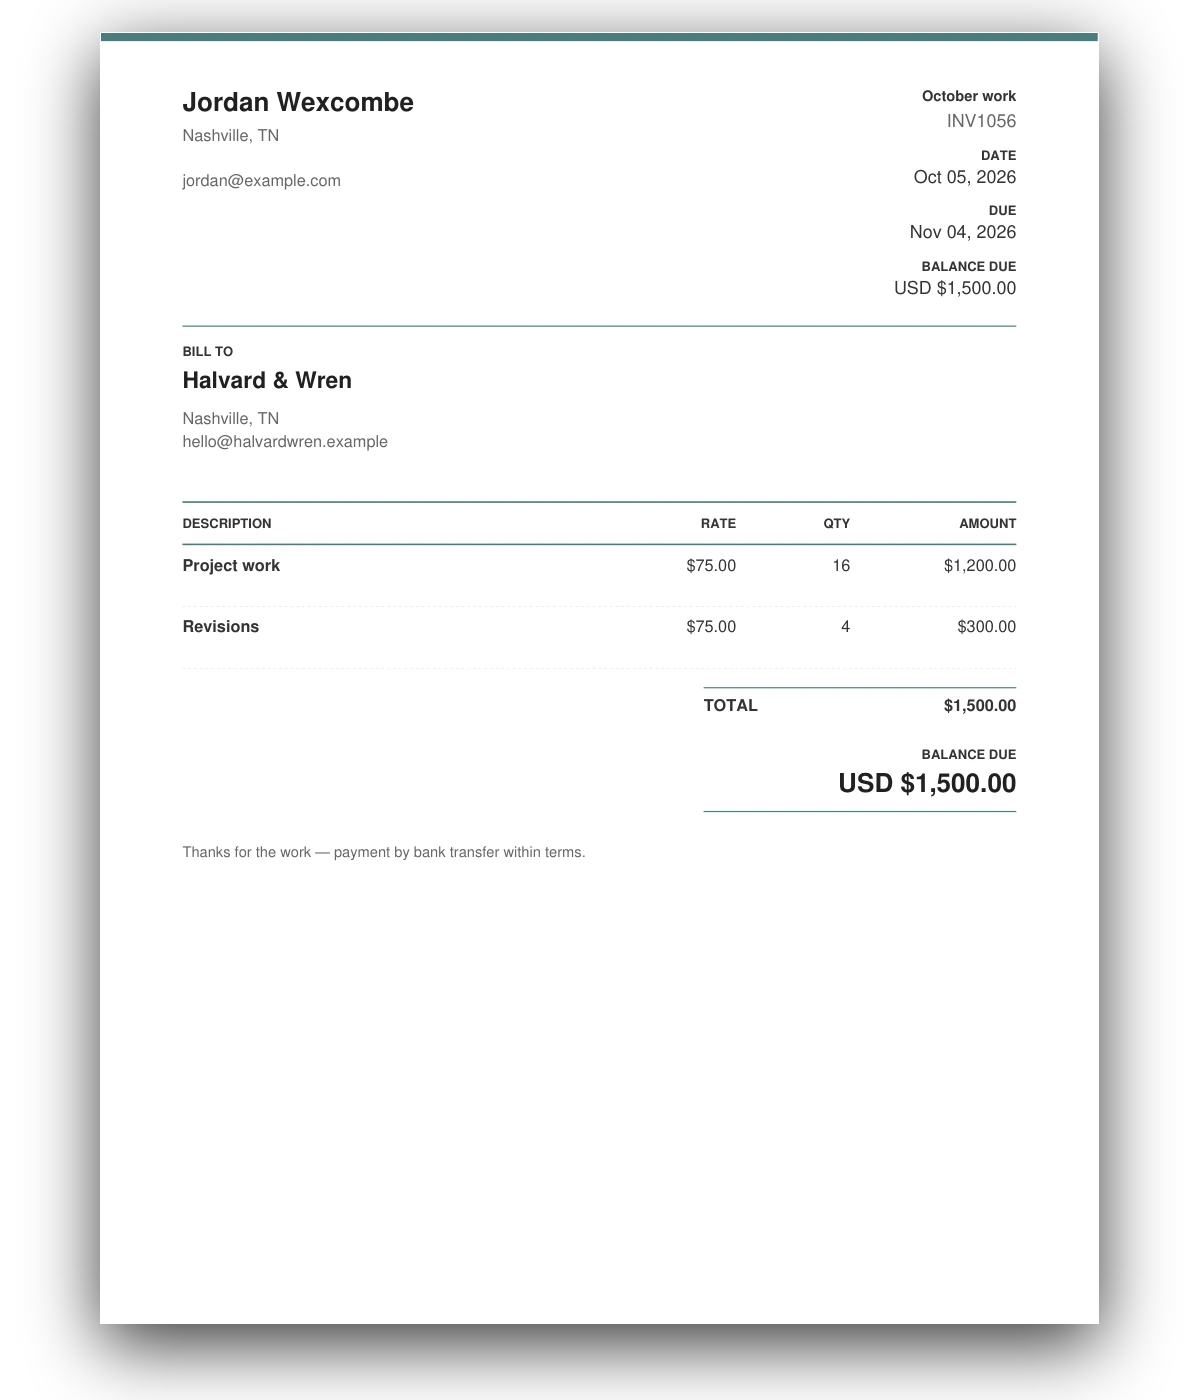
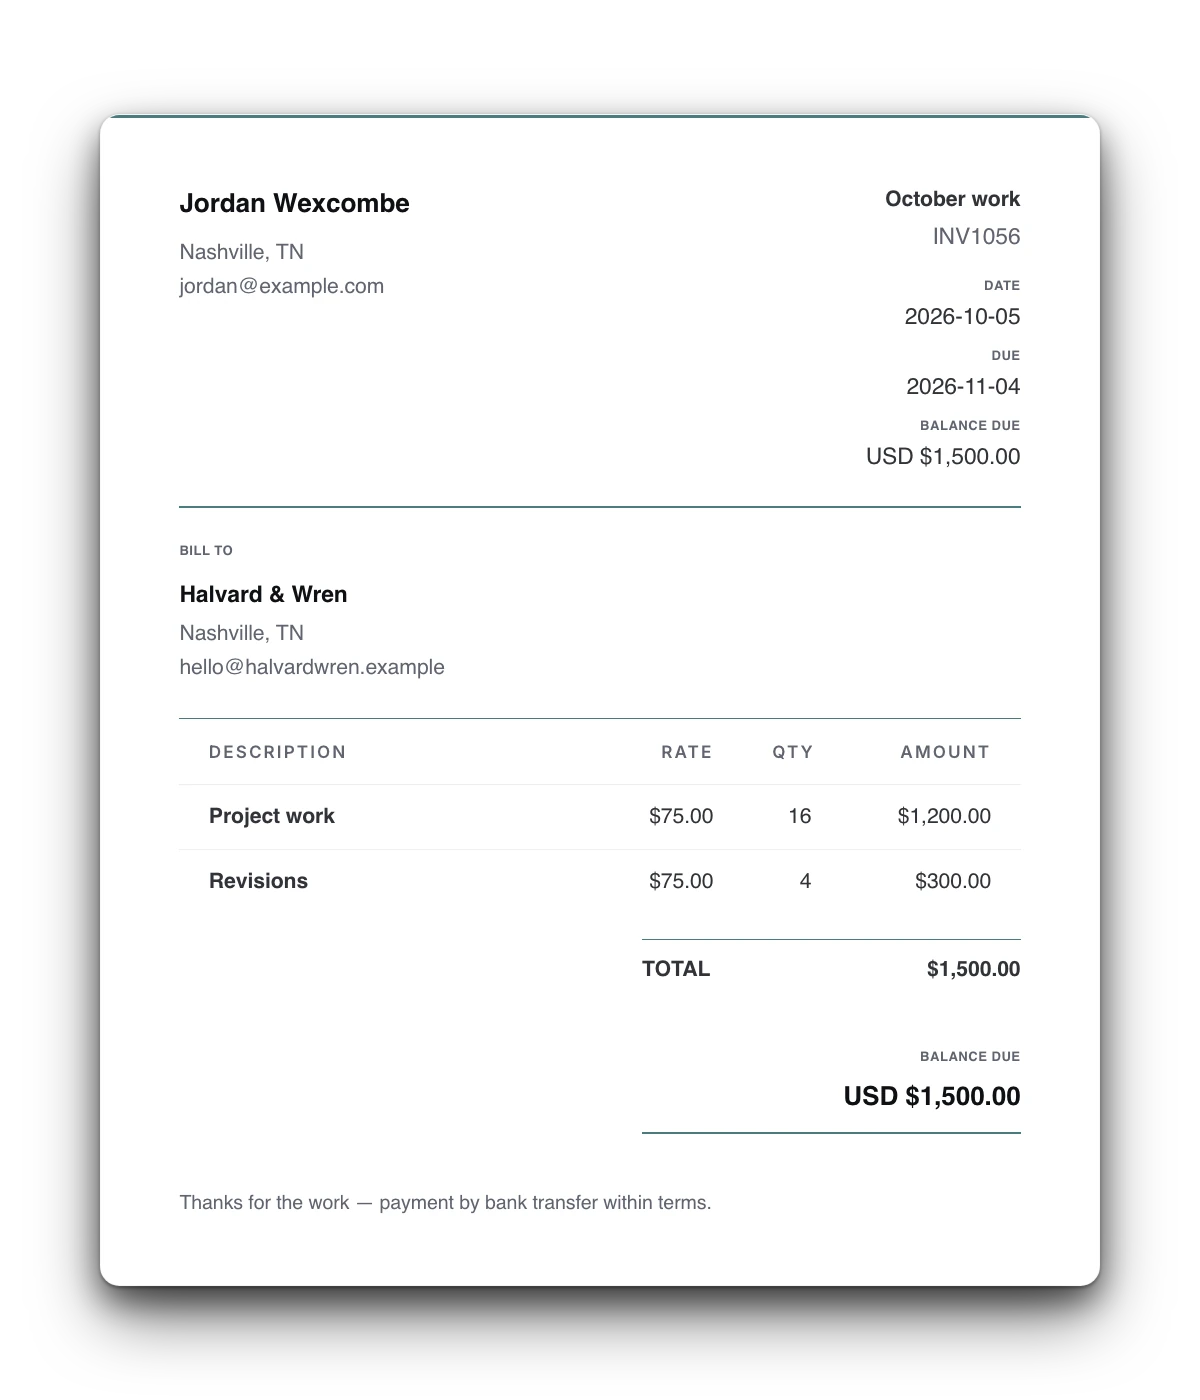
/mac hero: the invoice film's final Classic stills; the unused INV1056 deck files removed
mac-hero-{light,dark}.webp are now the motion chat's final stills (INV1056 in Classic from the film kit's real markup, 1200x1400, alpha kept; the same light paper in both, a deeper shadow and a faint hairline for the dark site). The in-app card shows ISO dates where the PDF prints 'Oct 05, 2026': the same data in the app's two real formats, so inv1056-classic.pdf stays. Removed: inv1056-{bold,modern,minimal}.pdf, the four inv1056-*.webp deck sheets and the collage script's --set inv1056 (the script equals main's again). axe 0 violations in both themes; the 8 theme paths pass. HANDOFF: legal's offer-line PASS was at 17:25Z.

diff --git a/mac.html b/mac.html
@@ -137,14 +137,13 @@
             </div>
           </div>
 
-          <!-- The hero: the ads' invoice (INV1056, Halvard & Wren) as light paper
-               in both themes, the shadow baked in; the dark site's image has a
-               deeper shadow and a faint rim. The page theme picks one (the
-               dashboard's .shot rules; no .figure, whose frame would box the
-               transparent image). Both are lazy and the head script preloads the
-               visible one. PLACEHOLDERS (2026-10-05, a render of inv1056-classic.pdf,
-               Daniel's template pick): the invoice film's stills replace these two
-               files at the same 1200×1400. -->
+          <!-- The hero: the ads' invoice (INV1056, Halvard & Wren) in Classic, as
+               light paper in both themes, the shadow baked in; the dark site's
+               image has a deeper shadow and a faint hairline. They're the invoice
+               film's stills (2026-10-05, 1200×1400, from its kit). The page theme
+               picks one (the dashboard's .shot rules; no .figure, whose frame
+               would box the transparent image). Both are lazy and the head script
+               preloads the visible one. -->
           <figure class="hero-invoice shot" id="invoice">
             <picture class="shot-dark">
               <img src="/assets/screenshots/mac-hero-dark.webp" width="1200" height="1400" style="width: 100%; height: auto" alt="An invoice for Halvard &amp; Wren from Jordan Wexcombe: project work and revisions at $75, $1,500.00 due." loading="lazy" fetchpriority="high" />

diff --git a/scripts/build-hero-collage.py b/scripts/build-hero-collage.py
@@ -18,16 +18,9 @@ Two stages, because they need different interpreters:
              (the sheets' inline --x/--y/--s/--z), styles.css and script.js.
                python scripts/build-hero-collage.py sheets
 
-             With --set inv1056 it rasterises /mac's deck instead: the same
-             invoice as the invoice-film chat renders it (its template and accent),
-             from assets/samples/inv1056-<style>.pdf to
-             assets/screenshots/inv1056-<style>.webp. Those PDFs come from that
-             chat's kit/pdf/, rendered by the app's own pdf_gen.
-               python scripts/build-hero-collage.py sheets --set inv1056
-
 No fake documents: every sheet is the app's real output for the same fictional
-invoice (INV1056, Halvard & Wren: the ads' invoice), on / and the audio pages in
-the four accents listed in SHEETS, on /mac in the invoice-film chat's renders.
+invoice (INV1056, Halvard & Wren: the ads' invoice). Styles and accents are
+listed in SHEETS.
 """
 from __future__ import annotations
 
@@ -106,23 +99,20 @@ SHEET_W = 1120           # each sheet's width (page 1836 → 1120, so 1470 → 8
 # properties), styles.css (.stack / .sheet) and script.js (DECK).
 
 
-def sheets(invoice_set: str | None) -> int:
-    """Raster the top of each template's PDF to a WebP sheet: the homepage's
-    invoice-<style>.pdf → sheet-<style>.webp, or <set>-<style>.pdf →
-    <set>-<style>.webp for a named set (/mac's inv1056)."""
+def sheets() -> int:
+    """Raster the top of each template's PDF to a WebP sheet."""
     import pymupdf
     from PIL import Image
 
-    pdf_stem, sheet_stem = (invoice_set, invoice_set) if invoice_set else ("invoice", "sheet")
     SHOTS.mkdir(parents=True, exist_ok=True)
     for style, _accent in SHEETS:
-        doc = pymupdf.open(SAMPLES / f"{pdf_stem}-{style}.pdf")
+        doc = pymupdf.open(SAMPLES / f"invoice-{style}.pdf")
         pix = doc[0].get_pixmap(matrix=pymupdf.Matrix(3, 3), alpha=False)
         im = Image.frombytes("RGB", (pix.width, pix.height), pix.samples)
         im = im.crop((0, 0, im.width, CROP_H))
         scale = SHEET_W / im.width
         im = im.resize((SHEET_W, round(im.height * scale)), Image.LANCZOS)
-        out = SHOTS / f"{sheet_stem}-{style}.webp"
+        out = SHOTS / f"sheet-{style}.webp"
         im.save(out, "WEBP", quality=90, method=6)
         print("wrote", out, im.size, out.stat().st_size // 1024, "KB")
     return 0
@@ -134,12 +124,11 @@ def main() -> int:
     r = sub.add_parser("render")
     r.add_argument("--app-dir", required=True)
     r.add_argument("--profile", required=True)
-    s = sub.add_parser("sheets")
-    s.add_argument("--set", dest="invoice_set", choices=["inv1056"], help="a named invoice set (default: the homepage's)")
+    sub.add_parser("sheets")
     args = ap.parse_args()
     if args.cmd == "render":
         return render(pathlib.Path(args.app_dir).resolve(), pathlib.Path(args.profile).resolve())
-    return sheets(args.invoice_set)
+    return sheets()
 
 
 if __name__ == "__main__":

diff --git a/HANDOFF.md b/HANDOFF.md
@@ -475,30 +475,27 @@ Legal's demo-data rule G11 (vault `03 - Operations/Legal & Compliance Audit — 
   - The meta description is tightened to the same voice: "Desktop invoicing for freelancers on your Mac. $5 a month, every feature, unlimited invoices. Free for 7 days, no card." (no coffee claim, so G10 doesn't apply).
   - Superseded: the G10 v2 line "$5 a month is less than a typical café latte, and it includes …" (Daniel: "too wordy").
 - **The dashboard alt** says one fictional overdue invoice (the re-captured shots).
-- **The hero is theme-matched, on PLACEHOLDERS in the final frame.** The four-template deck is gone from `/mac`. In its place:
+- **The hero is theme-matched: the invoice film's FINAL stills, in Classic (2026-10-05).** The four-template deck is gone from `/mac`. In its place:
   - One figure (`hero-invoice shot`) holds two images of INV1056 as light paper, in the motion chat's frame: 1200×1400, transparent, the page whole with its shadow baked in. `mac-hero-light.webp` has a soft shadow, for the light site; `mac-hero-dark.webp` is the same paper with a deeper shadow and a faint rim, for the dark site. The page theme picks one with the dashboard's `.shot` rules.
   - The invoice stays light paper in both themes, as Daniel asked ("the invoice itself should be light mode"), and there's no lifted totals box.
   - No new CSS. `.figure` is left off, because its border and box would frame the transparent image. The two images carry `width: 100%; height: auto` inline, so `styles.css` (the premium pass's file) is untouched.
   - Loading: both images are `loading="lazy"`, so the hidden one never loads, and the head script preloads the visible theme's image at high priority. This is Sol's P2: before, a light-theme visitor downloaded the hidden dark image eagerly and lazy-loaded their own.
   - The caption: "An invoice made in Freelance Easy; the names on it are fictional. Open the PDF" (`inv1056-classic.pdf` since Daniel's template pick; `inv1056-modern.pdf` before). Legal's wording: "The client is fictional" implied the sender might be real, and the persona shown using the product would read as a real customer (an implied endorsement).
   - **Daniel picked CLASSIC** for the film and the hero (the motion chat's Motion Picks, 2026-10-05 17:14Z; its recommendation was Bold).
-  - **The placeholders** are a render of `assets/samples/inv1056-classic.pdf` in that frame (2026-10-05, after the pick). That PDF is byte-identical to the motion chat's `kit/pdf/INV1056-classic.pdf`.
-    - They replaced a Modern render from earlier the same day, which had itself replaced the app's invoice page with its toolbar (1200×1012), to match the stills' frame.
-    - The alt describes the content, not the template's styling, so it holds for Classic.
-  - **When the motion chat's stills land** (`hero-light.png` / `hero-dark.png`, in Classic):
-    - convert them to WebP with alpha over these two files (the same 1200×1400, so the markup doesn't change);
-    - "Open the PDF" already points at `inv1056-classic.pdf`. If the kit re-renders its Classic PDF, re-copy it;
-    - re-read the alt against the final stills;
-    - re-run axe in both themes;
-    - send legal a 2-minute G11 look.
-  - The deck's files (`inv1056-{bold,modern,minimal}.pdf`, all four `inv1056-*.webp`, the collage script's `--set inv1056`) are unused now. Delete them together with the final-stills swap.
-  - **Checked after the Classic swap (local, 2026-10-05):** axe 4.12.1 finds 0 violations on `/mac` in both themes; the 8 theme paths pass (a first visit fetches only `mac-hero-light.webp`, a stored dark fetches only `mac-hero-dark.webp`); screenshots at 1280 px and 375 px in both themes; "Open the PDF" resolves to the Classic PDF.
+  - **The final stills** (the motion chat's `review/hero/hero-{light,dark}.png`, 2026-10-05) are now `mac-hero-{light,dark}.webp`: WebP with alpha, quality 90.
+    - The source: INV1056 in Classic from the film kit's real markup (the in-app invoice card), whole, no callout, no cursor. The paper is 1000×1172 at x 100, y 114.
+    - The two interiors are pixel-identical. Light has the house soft shadow; dark has a deeper, softer shadow plus a 1 px `rgba(255,255,255,.06)` hairline. Every shadow fades to alpha 0 before the canvas edge.
+    - Checked on install: 1200×1400, transparent corners, opaque paper, alpha kept in the WebP. By eye over both site backgrounds, everything is cleared demo data (Jordan Wexcombe, Halvard & Wren, example.com/.example).
+    - **The one difference from the PDF is the date format.** The in-app card shows ISO dates ("2026-10-05", due "2026-11-04"); the PDF prints "Oct 05, 2026" / "Nov 04, 2026". They're the same data in the app's two real formats, so the PDF stays as it is (the motion chat checked the rest of the text matches). Whether "Open the PDF" needs a note went to legal; my recommendation is no note.
+    - The alt describes the content, which is the same in both, so it stands.
+    - The placeholders before them: a render of `inv1056-classic.pdf` (after the pick), and before that a Modern render, which had itself replaced the app's invoice page with its toolbar (1200×1012).
+  - **Removed with the swap:** the deck's unused files, `inv1056-{bold,modern,minimal}.pdf` and all four `inv1056-*.webp`. The collage script's `--set inv1056` is undone too, so `scripts/build-hero-collage.py` equals `main`'s. `inv1056-classic.pdf` stays: it's the "Open the PDF" link.
 - **Checked on the branch preview (2026-10-05):**
   - before the hero change: `node scripts/test-worker.mjs` 46/46; `check-download-wiring.py` 8/8 plus the inert `/js/script.js`; axe-core 4.12.1 (WCAG 2.1 A/AA, headless Chromium) finds 0 violations on `/mac` and `/` in the dark and the light theme, while the control (`/privacy` with `main`'s styles) still fails on the link issues legal v2 fixes;
   - after it (`1ad2344`): every served file byte-identical to the branch; axe 0 violations on `/mac` in both themes (the `/privacy` control fails as expected); download wiring 8/8 plus the inert analytics route.
   - Locally: a dark load fetches only `mac-hero-dark.webp` and a light load only `mac-hero-light.webp`, each through the preload; both render at the 6:7 shape (480×560 in an 800 px window).
 - **Legal (2026-10-05): PASS** on the delta and on the first hero placeholder (every visible button a real shipped feature). The final stills get a 2-minute G11 look.
-- **Legal (2026-10-05, ~17:50Z): PASS on the offer line (`0a070ce`), explicitly.** Daniel's line plus "*vs. a typical café latte" directly beneath it meets G10 v3: 16 px in `--text-1` (13.2:1 / 11.3:1), always visible, no coffee imagery. The caption fix and the meta description are fine. The first-visit `sessionStorage` theme flag raises no privacy issue: no page claim covers browser storage, and it's a session-only display flag.
+- **Legal (2026-10-05, 17:25Z): PASS on the offer line (`0a070ce`), explicitly.** Daniel's line plus "*vs. a typical café latte" directly beneath it meets G10 v3: 16 px in `--text-1` (13.2:1 / 11.3:1), always visible, no coffee imagery. The caption fix and the meta description are fine. The first-visit `sessionStorage` theme flag raises no privacy issue: no page claim covers browser storage, and it's a session-only display flag.
 - **The pricing note carries legal v2's before-Link line now** (legal, 2026-10-05): "Checkout shows the currency and the full total, including any tax, before you pay." It replaces "Where sales tax applies, it's added at checkout." word for word, the same as the before-Link branch's `/mac-audio` note.
   - **So `/mac` no longer waits for Stripe's Managed Payments switch-on.** Its gates now:
     - legal v2 (the before-Link branch) published first, or in the same deploy;
